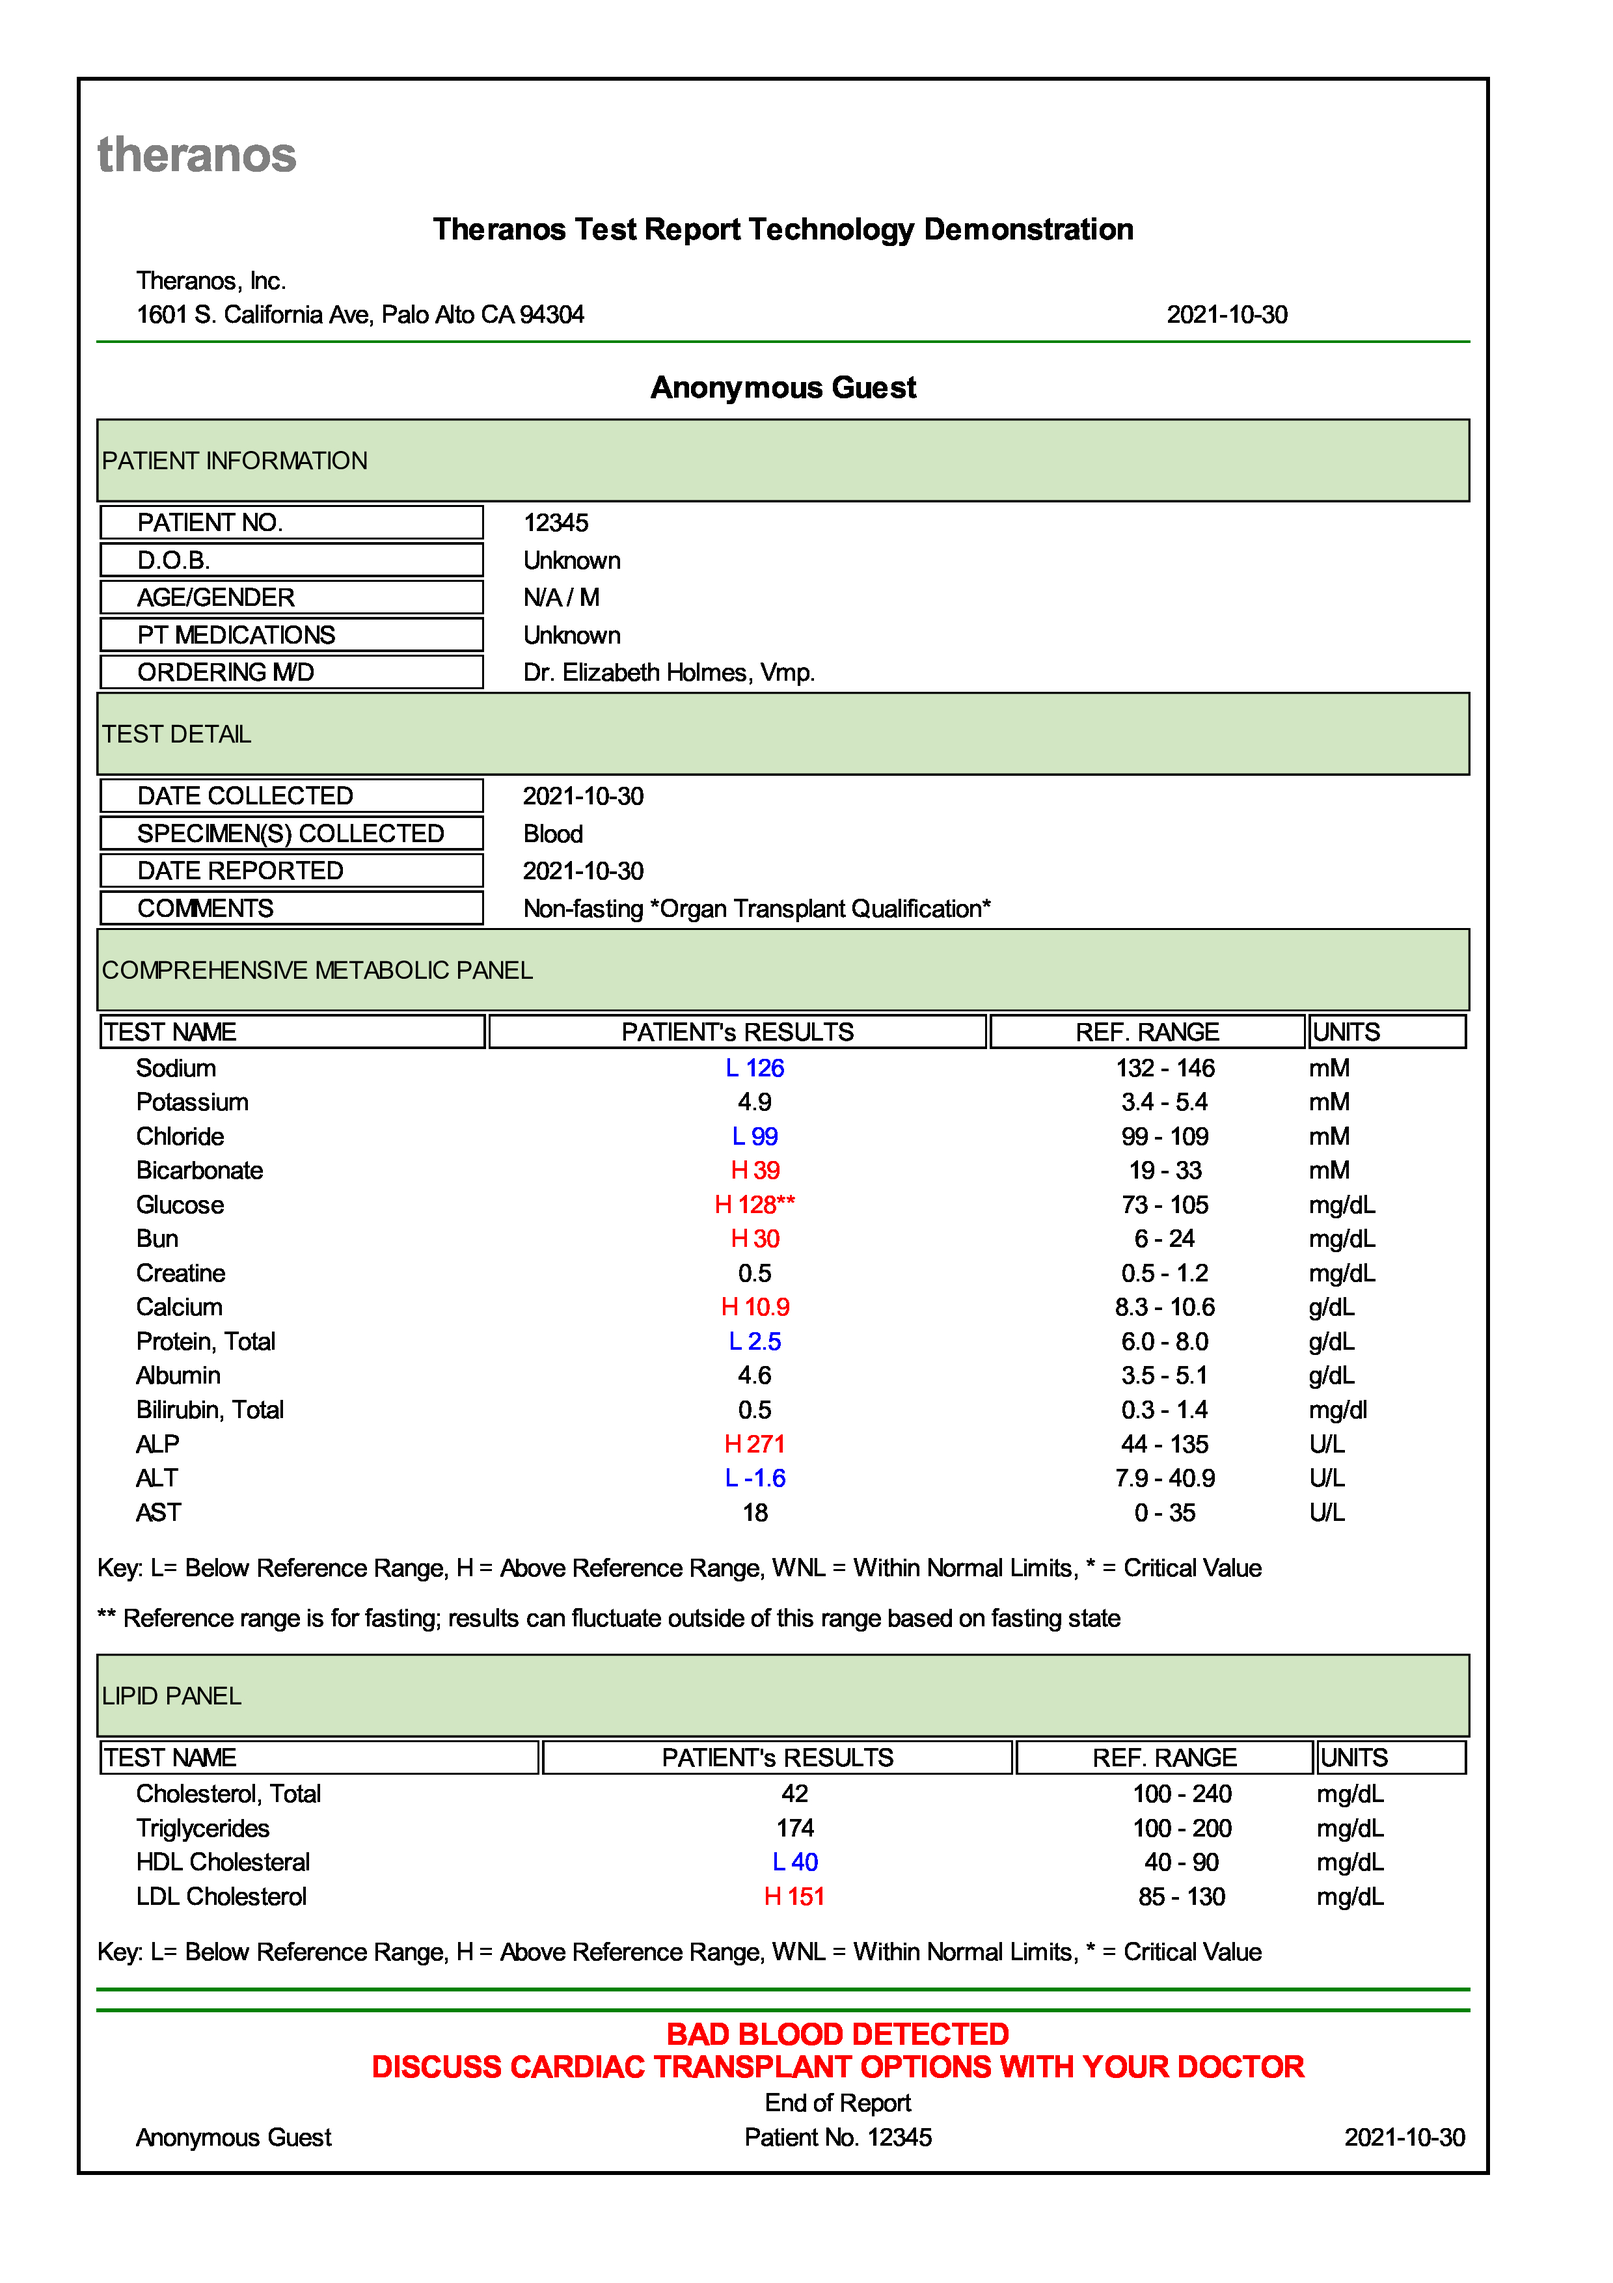
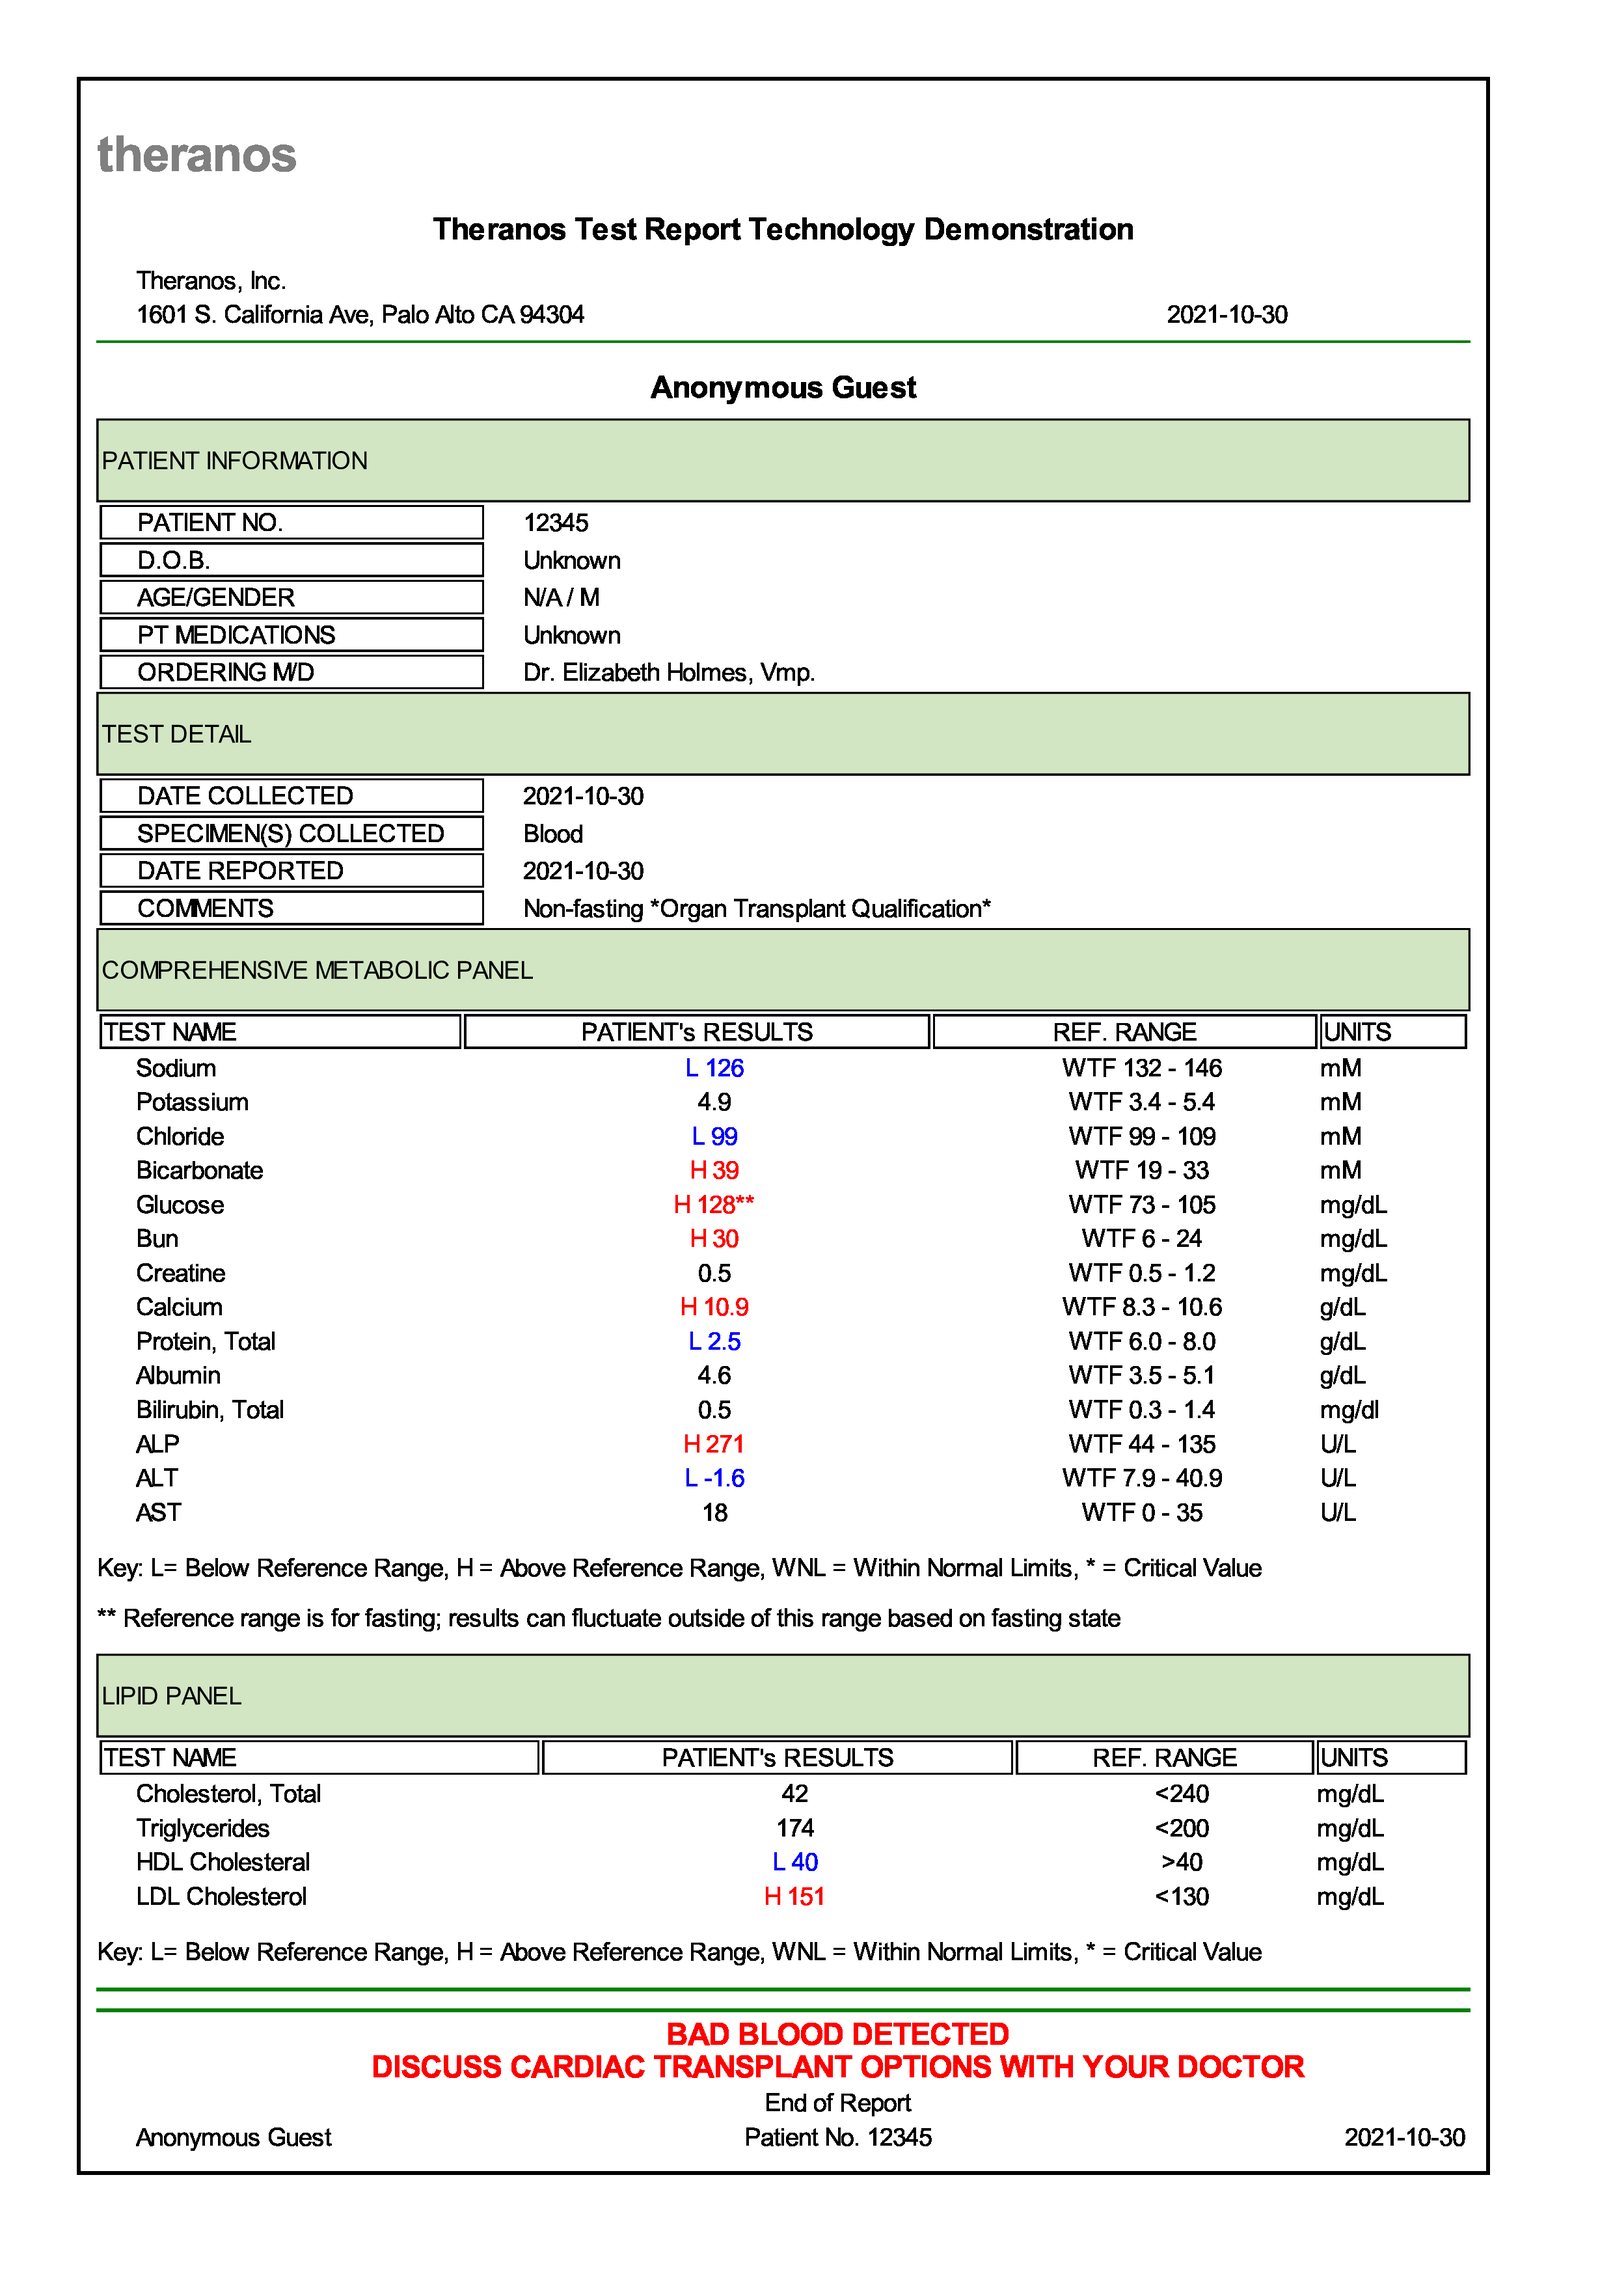
Reference range formatting was off. Fixed now.

diff --git a/report.py b/report.py
@@ -107,11 +107,11 @@ class Between:
 
 
 @dataclass
-class UnderHigh(Between):
+class LTHigh(Between):
     """
     Expect below. Must provide low anyway, so we can generate a number
     """
-    fmt_range = "<{high}"
+    fmt_range: str = "<{high}"
 
     def contains(self, value):
         if self.high < value:
@@ -120,11 +120,11 @@ class UnderHigh(Between):
 
 
 @dataclass
-class OverLow(Between):
+class GTLow(Between):
     """
     Expect above. Must provide high anyway, so we can generate a number
     """
-    fmt_range = ">{low}"
+    fmt_range: str = ">{low}"
 
     def contains(self, value):
         if value < self.low:
@@ -227,10 +227,10 @@ class LabReport:
     )
 
     lipid_panel = GenList(
-        Test("Cholesterol, Total", UnderHigh(100, 240), "mg/dL"),
-        Test("Triglycerides", UnderHigh(100, 200), "mg/dL"),
-        Test("HDL Cholesteral", OverLow(40, 90), "mg/dL"),
-        Test("LDL Cholesterol", UnderHigh(85, 130), "mg/dL"),
+        Test("Cholesterol, Total", LTHigh(100, 240), "mg/dL"),
+        Test("Triglycerides", LTHigh(100, 200), "mg/dL"),
+        Test("HDL Cholesteral", GTLow(40, 90), "mg/dL"),
+        Test("LDL Cholesterol", LTHigh(85, 130), "mg/dL"),
     )
 
     def as_html(self) -> str:
